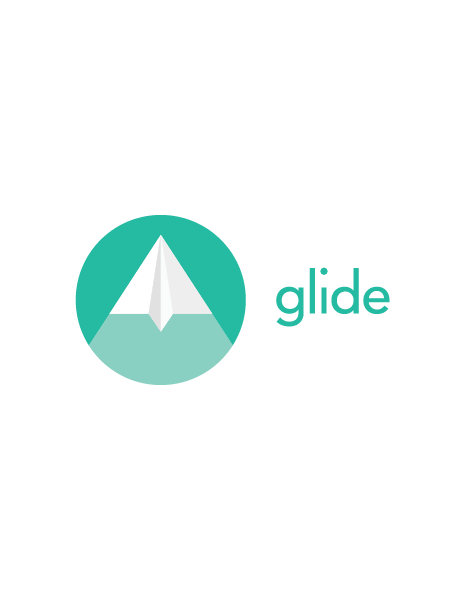
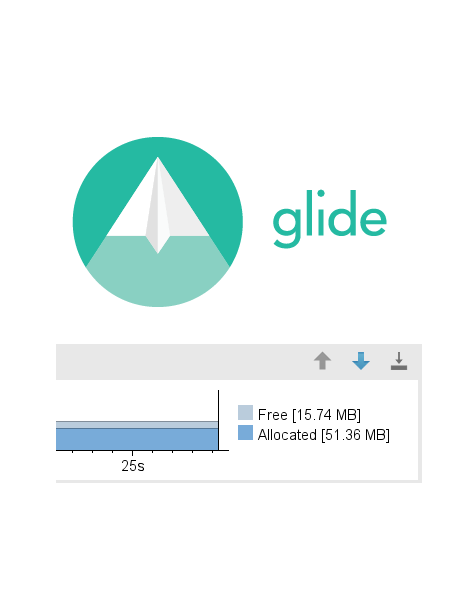
update

diff --git a/index.html b/index.html
@@ -894,12 +894,81 @@
                                     <p>Firebase의 저장된 이미지를 로딩하기 위해서 비동기 처리부터 HttpConnection 설정 작업까지 많은 작업들을 수행할 필요 없이 쉽게 이미지를 가지고 올 수 있었습니다.</p>
                                 </div>
                                 <!-- END SINGLE DESC -->
+
+                                <div class="single_about_area fadeInUp wow" data-wow-duration=".5s" data-wow-delay="2s">
+                                    <!-- ICON -->
+                                    <div><i class="pe-7s-stopwatch"></i></div>
+                                    <!-- HEADING DESCRIPTION -->
+                                    <h3>메모리</h3>
+                                    <p>결과적으로는 메모리를 많이 아끼려고 노력한 결과 메인 애니메이션 화면에서 50MB 정도 사용합니다.[S6 edge 기준]</p>
+                                </div>
                             </div>
                         </div>
                     </div>
                 </div>
 
-                <br><br>
+
+
+                 <div class="container">
+                    <div class="row">
+
+                        <div class="col-md-6">
+                            <div class="about_phone wow fadeInLeft" data-wow-duration="1s" data-wow-delay=".5s">
+                            <!-- PHONE -->
+                                <img src="images/realtime.png" alt="">
+                            </div>
+                        </div>
+
+                        <div class="col-md-6  wow fadeInRight" data-wow-duration="1s" data-wow-delay=".5s">
+                            <!-- TITLE -->
+                            <div class="inner_about_title">
+                                <h2>어려운 DB설계</h2>
+                                <p>NoSQL 이라서 직관적이라고 생각했던 DB가 생각만큼 쉽지만은 않았습니다.</p>
+                            </div>
+                         
+                          <div class="inner_about_desc">
+
+                                 <!-- SINGLE DESC -->
+                                <div class="single_about_area fadeInUp wow" data-wow-duration=".5s" data-wow-delay="1s">
+                                    <!-- ICON -->
+                                    <div><i class="pe-7s-timer"></i></div>
+                                    <!-- HEADING DESCRIPTION -->
+                                    <h3>경험의 부재</h3>
+                                    <p>어떤 데이터들이 포함 되어 있어야 효율적으로 사용할 수 있을지에 대한 고민을 많이하고, 시행착오도 많이 겪었습니다.</p>
+                                </div>
+                                <!-- END SINGLE DESC -->
+
+
+                                <!-- SINGLE DESC -->
+                                <div class="single_about_area fadeInUp wow" data-wow-duration=".5s" data-wow-delay="1.5s">
+                                    <!-- ICON -->
+                                    <div><i class="pe-7s-target"></i></div>
+                                    <!-- HEADING DESCRIPTION -->
+                                    <h3>지금의 방법</h3>
+                                    <p>각각의 기능별로 구분해서 설계했습니다. 랭킹 메뉴에서는 술 종류별, 사용자 리뷰 내용별, 사용자 평점별, 사용자 성별별 평점 등등</p>
+                                </div>
+                                <!-- END SINGLE DESC -->
+                            </div>
+                        </div>
+                    </div>
+                </div>
+                <br><br><br>
+
+                 <div class="container">
+            <div class="row">
+                <div class="col-md-10 col-md-offset-1">
+                    <!-- FEATURES SECTION TITLE -->
+                    <div class="section_title wow fadeIn" data-wow-duration="1s">
+                       
+                        <p>그 외 다른 개발 이야기 ...</p>
+
+                    </div>
+                    <!-- END FEATURES SECTION TITLE -->
+                </div>
+            </div>
+        </div>
+
+
             <div class="container">
                 <div class="row">
                     <div class="col-md-4 right_no_padding wow fadeInLeft" data-wow-duration="1s">
@@ -930,6 +999,16 @@
 
 
                         <!-- FEATURE -->
+
+                        <!-- FEATURE -->
+                        <div class="left_single_feature">
+                            <!-- ICON -->
+                            <div><span class="pe-7s-look"></span></div>
+
+                            <!-- FEATURE HEADING AND DESCRIPTION -->
+                            <h3>개발 진행상황<span>/</span></h3>
+                            <p>개발을 진행하면서 느낀 점들을 정리</p>
+                        </div>
              
                         <!-- END SINGLE FEATURE -->
 
